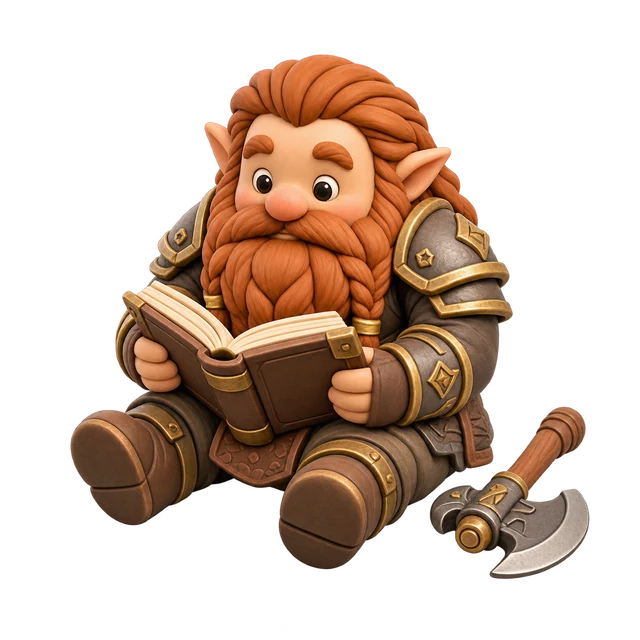
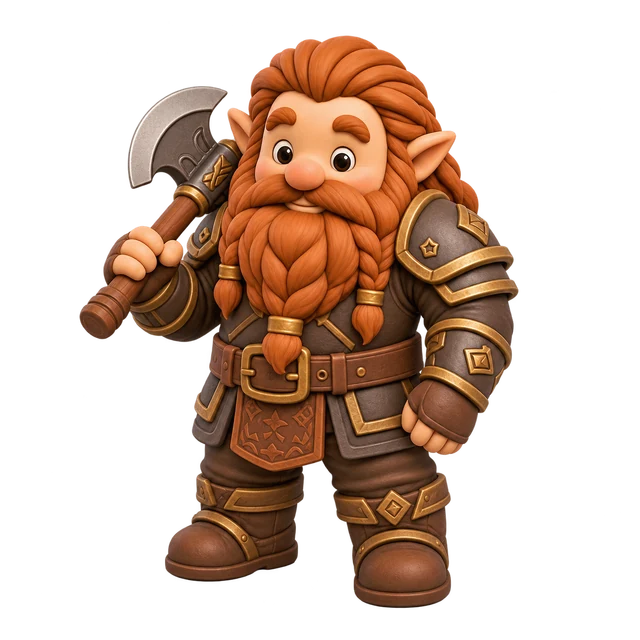
초급 캐릭터 10종을 스탠딩 이미지로 교체

diff --git a/public/reading-journey/README.md b/public/reading-journey/README.md
@@ -3,7 +3,7 @@
 승인된 대륙형 여정 맵과 초급·중급·고급 캐릭터 각 10종을 웹 화면에 맞게 최적화한 파일입니다.
 
 - `map.webp`: 1536 × 1024. 그림 전체와 경로 좌표계를 함께 사용하며, `cover`로 잘라서 표시하지 않습니다.
-- `beginner-01.webp` ~ `beginner-10.webp`: 사용자 제공 판타지 캐릭터 세트, 640 × 640, 투명 배경.
+- `beginner-01.webp` ~ `beginner-10.webp`: 사용자 제공 판타지 캐릭터 스탠딩 세트, 640 × 640, 투명 배경.
 - `intermediate-01.webp` ~ `intermediate-10.webp`: 첫 번째 캐릭터 세트, 640 × 640, 투명 배경.
 - `advanced-01.webp` ~ `advanced-10.webp`: 전통 무술복 캐릭터 세트, 640 × 640, 투명 배경.
 
@@ -41,6 +41,6 @@
 
 중급·고급 캐릭터의 원본은 각각 1254 × 1254 PNG입니다. 원본 그림과 선택된 맵을 다시 그리지 않고, 크기와 인코딩만 웹용으로 변경했습니다. 캐릭터의 투명도 채널은 리사이즈 결과를 손실 없이 보존했습니다.
 
-초급 원본은 사용자 제공 `fantasy-clay-characters.zip`의 1024 × 1024 PNG 10개입니다. 흰 배경과 지면 그림자는 이미지 편집 도구로 투명화했고, 얼굴·포즈·의상·책·원래 소품을 유지하도록 참조 편집했습니다. 생성 편집 특성상 미세한 재묘사가 있을 수 있으며 원본 픽셀을 그대로 옮긴 파일은 아닙니다. 투명화 PNG를 웹용 WebP로 최적화했습니다. 제공 ZIP과 원본 PNG·투명화 PNG는 작업 산출물 `bookbom-beginner-characters`에 별도로 보존합니다.
+초급 원본은 사용자 제공 `fantasy-clay-characters-standing.zip`의 1024 × 1024 PNG 10개입니다. 기존의 앉아서 책을 읽던 이미지를 새 스탠딩 포즈로 교체했으며 번호·이름·저장된 선택값은 유지합니다. 흰 배경과 지면 그림자는 이미지 편집 도구로 투명화했고, 새 원본의 얼굴·서 있는 자세·의상·무기·지팡이·원래 소품을 유지하도록 참조 편집했습니다. 새 원본에 없는 책이나 이전 포즈는 추가하지 않았습니다. 생성 편집 특성상 미세한 재묘사가 있을 수 있으며 원본 픽셀을 그대로 옮긴 파일은 아닙니다. 투명화 PNG를 웹용 WebP로 최적화했습니다. 제공 ZIP·스탠딩 원본 PNG·투명화 PNG·교체 전 WebP는 작업 산출물 `bookbom-beginner-standing`에 보존합니다. 이전 앉은 이미지 원본도 `bookbom-beginner-characters`에 그대로 남아 있습니다.
 
 원본 디자인 자료는 작업 산출물 `bookbom-characters-renamed`와 `bookbom-journey-prototype/assets/journey-background.png`에 보존되어 있습니다. 화면에서는 이 폴더의 WebP를 사용합니다.
